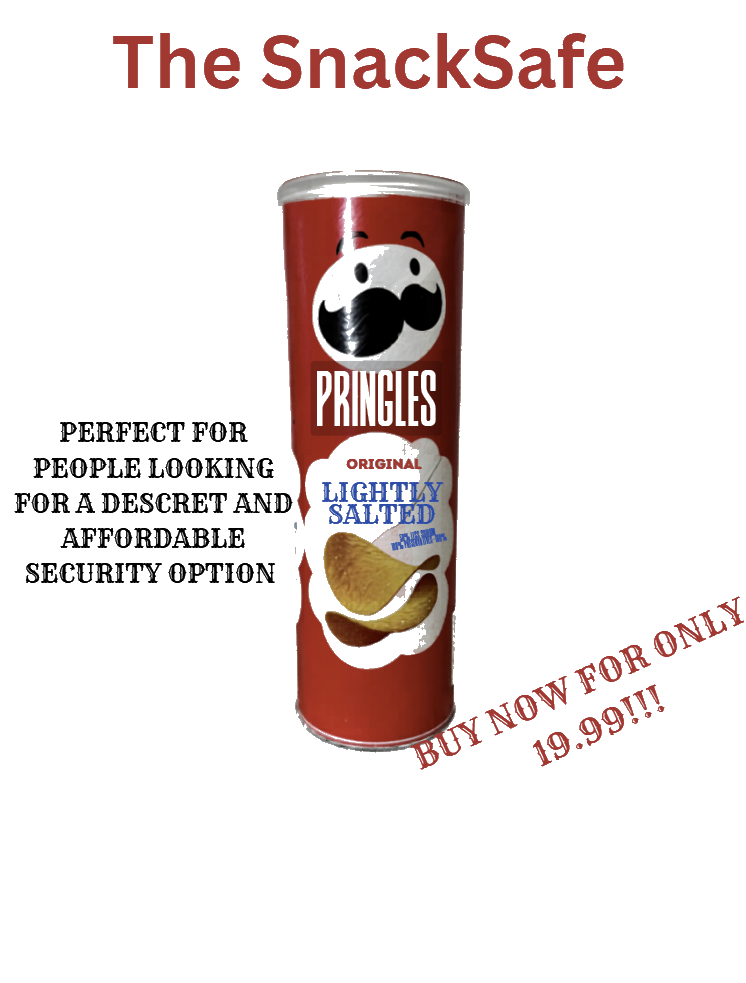
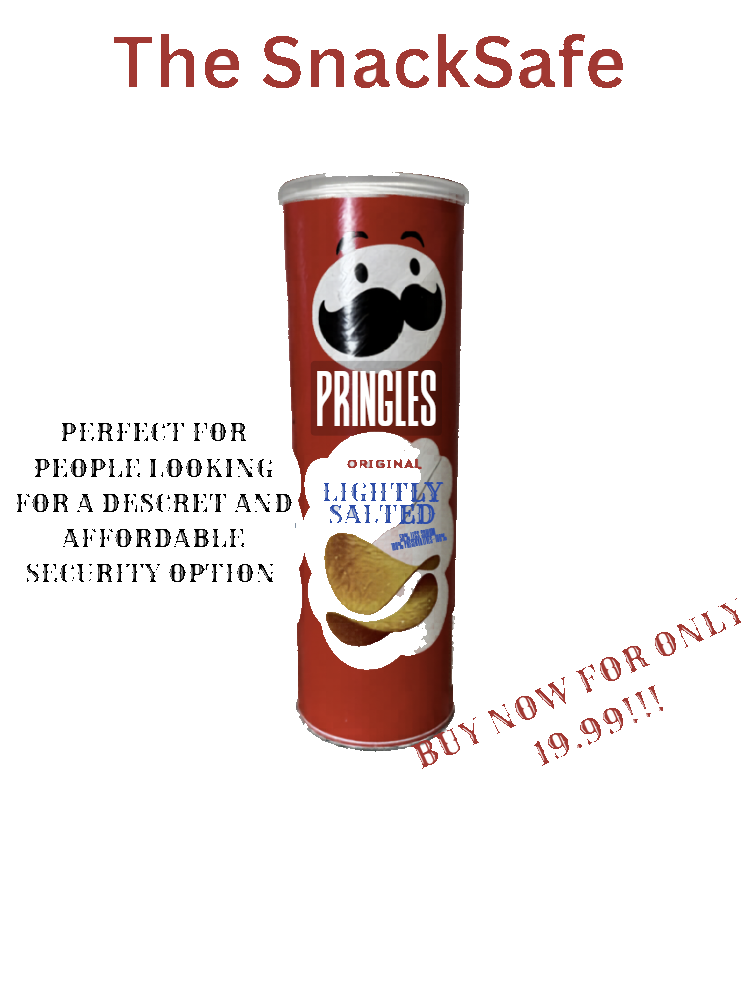
Rebuild hero cutouts from original source images

diff --git a/index.html b/index.html
@@ -54,10 +54,10 @@
               <img src="assets/product-can.png?v=20260415c" alt="SnackSafe hidden in pantry">
             </figure>
             <figure class="carousel-slide carousel-slide-transparent" data-index="1">
-              <img src="assets/product-detail-cutout.png?v=20260415e" alt="SnackSafe internal compartment">
+              <img src="assets/product-detail-cutout.png?v=20260415f" alt="SnackSafe internal compartment">
             </figure>
             <figure class="carousel-slide carousel-slide-transparent" data-index="2">
-              <img src="assets/product-can-main-cutout.png?v=20260415e" alt="SnackSafe product can">
+              <img src="assets/product-can-main-cutout.png?v=20260415f" alt="SnackSafe product can">
             </figure>
           </div>
           <div class="carousel-nav">
